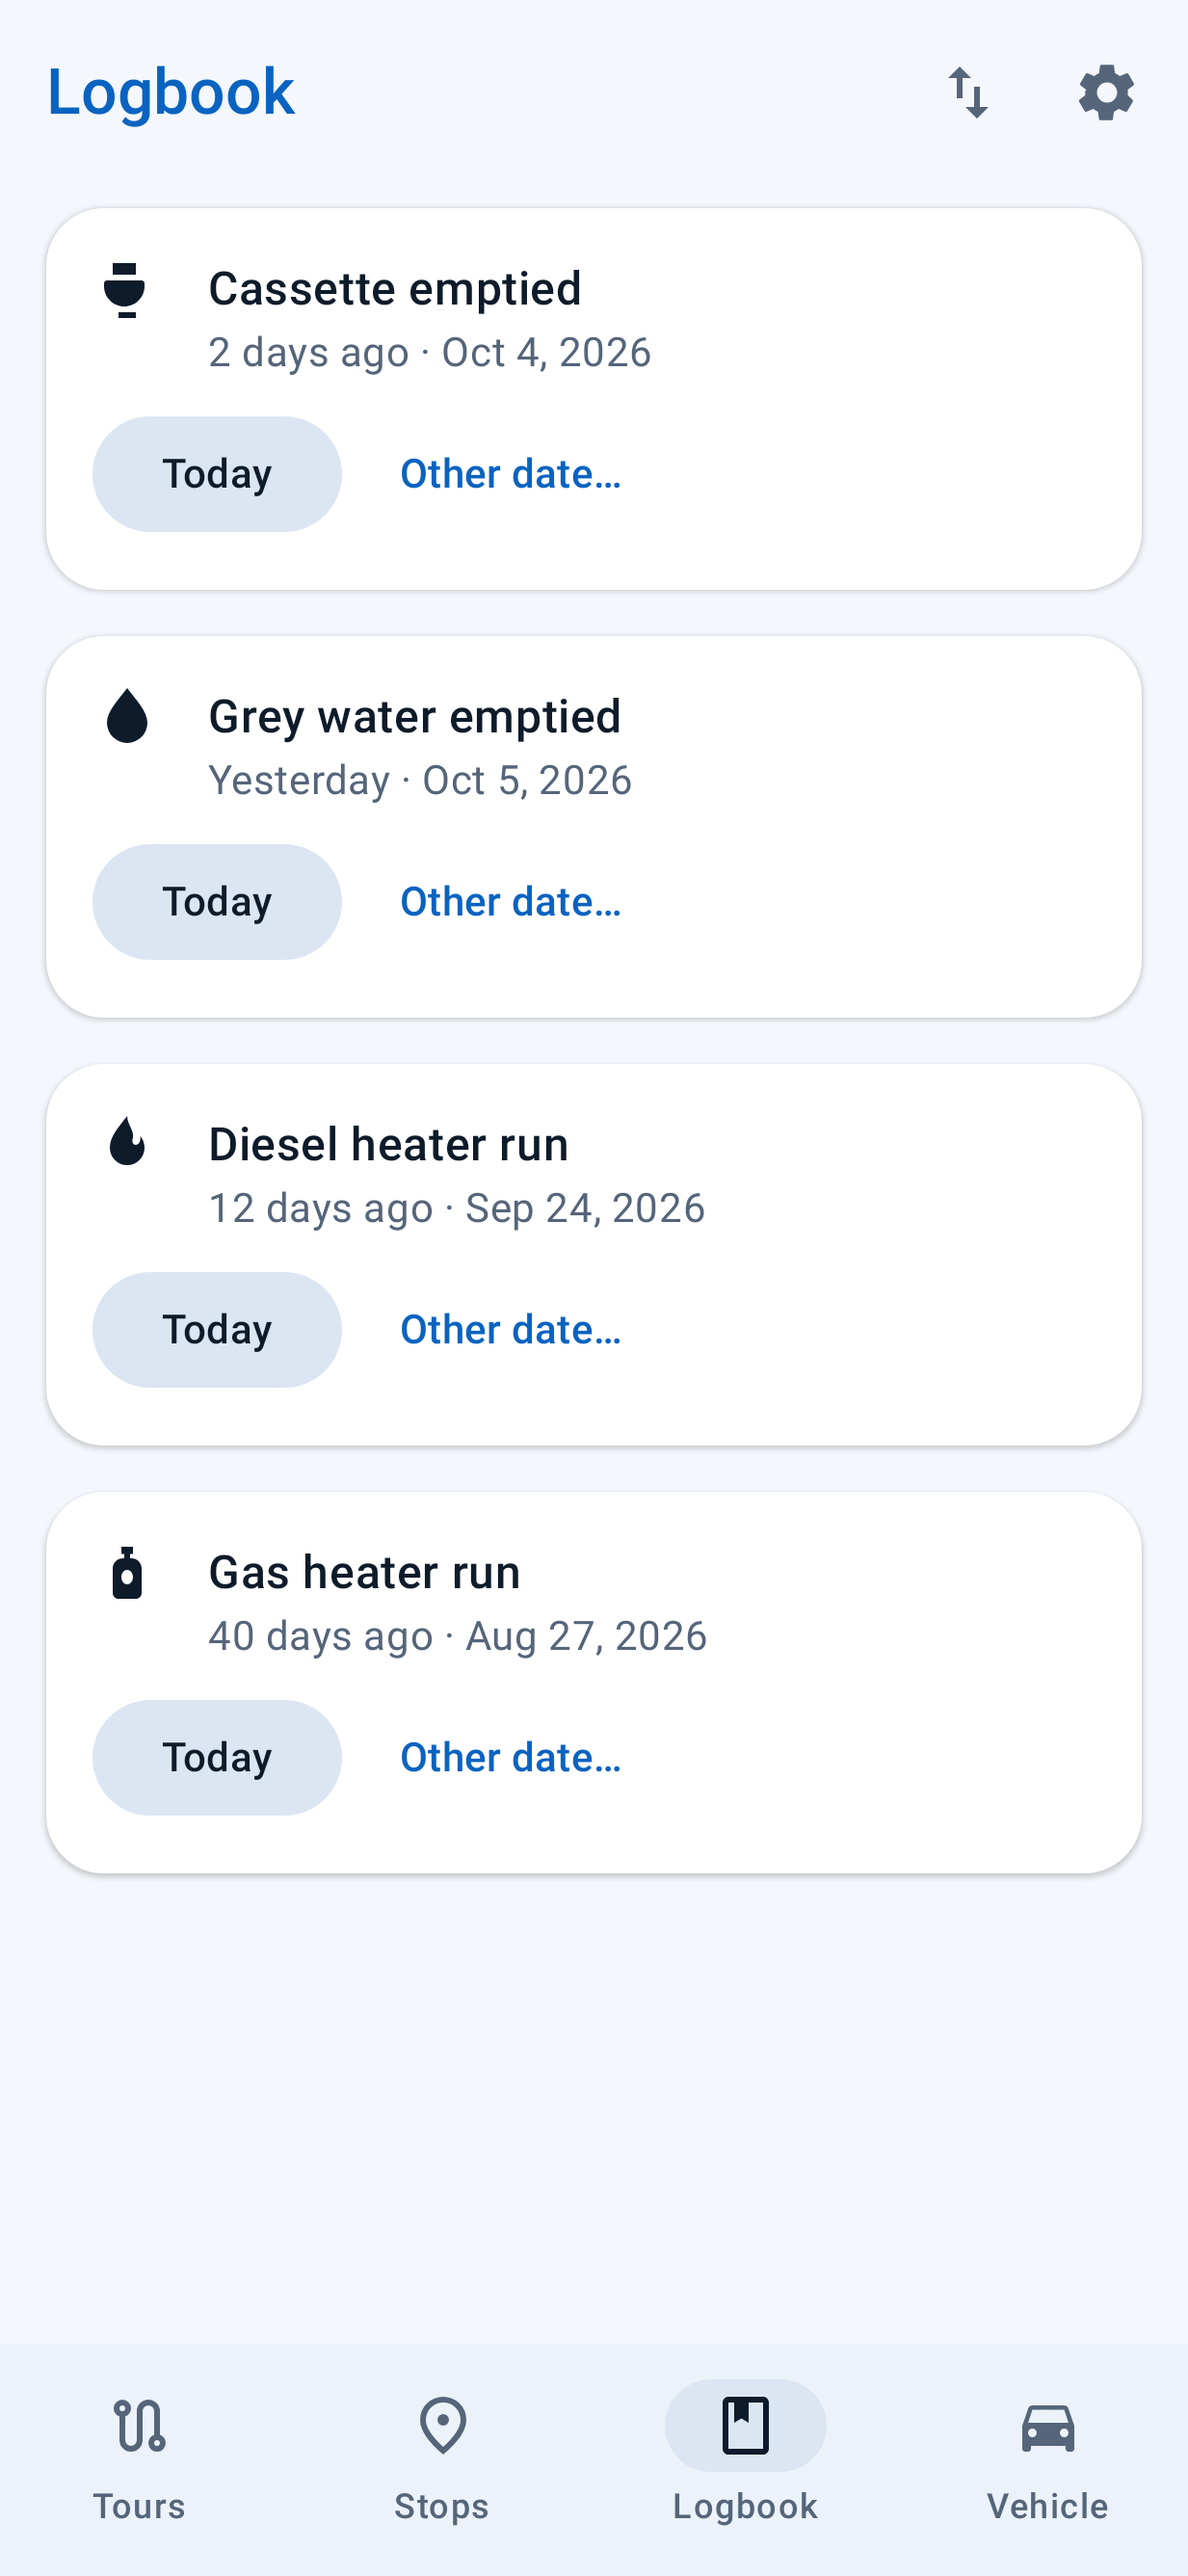
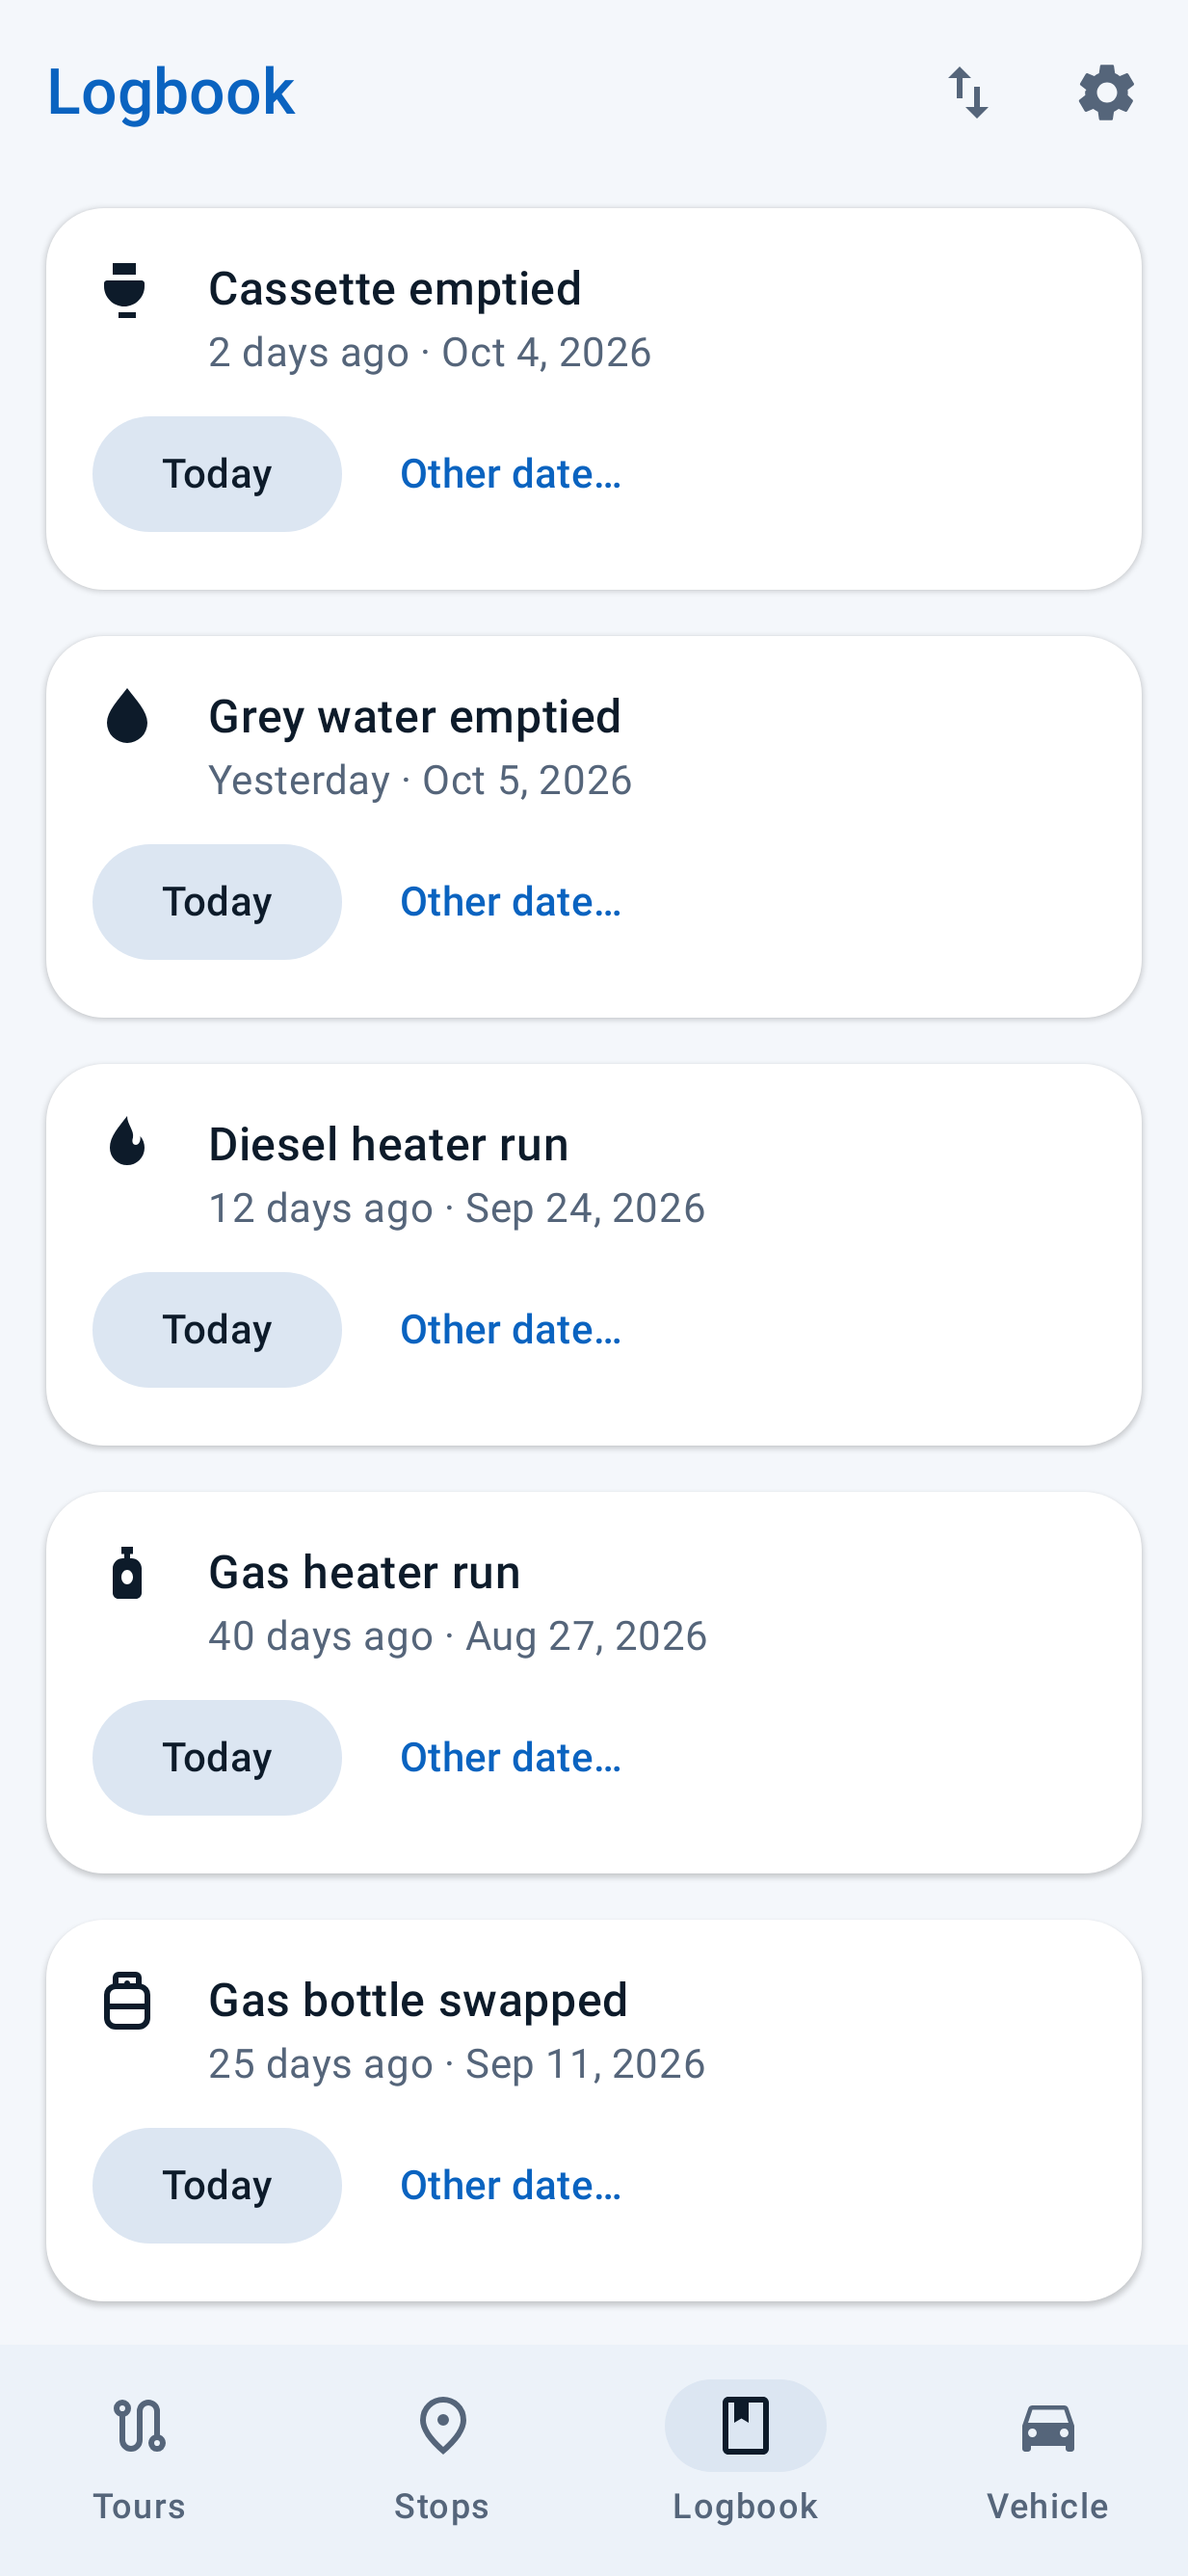
Regenerate logbook screenshot with a gas bottle sample entry

diff --git a/app/src/test/java/app/restvolt/camperlog/ui/logbook/LogbookViewModelTest.kt b/app/src/test/java/app/restvolt/camperlog/ui/logbook/LogbookViewModelTest.kt
@@ -50,7 +50,10 @@ class LogbookViewModelTest {
         val tiles = viewModel.uiState.value.tiles
 
         assertEquals(
-            listOf(LogType.CASSETTE_EMPTIED, LogType.GREY_WATER_EMPTIED, LogType.DIESEL_HEATER_RUN, LogType.GAS_HEATER_RUN),
+            listOf(
+                LogType.CASSETTE_EMPTIED, LogType.GREY_WATER_EMPTIED, LogType.DIESEL_HEATER_RUN,
+                LogType.GAS_HEATER_RUN, LogType.GAS_BOTTLE_SWAPPED,
+            ),
             tiles.map { it.type },
         )
         assertEquals(today.minusDays(3), tiles.first { it.type == LogType.CASSETTE_EMPTIED }.lastDate)

diff --git a/app/src/test/java/app/restvolt/camperlog/ui/ReadmeScreenshots.kt b/app/src/test/java/app/restvolt/camperlog/ui/ReadmeScreenshots.kt
@@ -180,6 +180,7 @@ class ReadmeScreenshots {
                 LogType.GREY_WATER_EMPTIED to 1L,
                 LogType.DIESEL_HEATER_RUN to 12L,
                 LogType.GAS_HEATER_RUN to 40L,
+                LogType.GAS_BOTTLE_SWAPPED to 25L,
             ).mapIndexed { index, (type, daysAgo) ->
                 LogEntry(
                     id = index + 1L,
